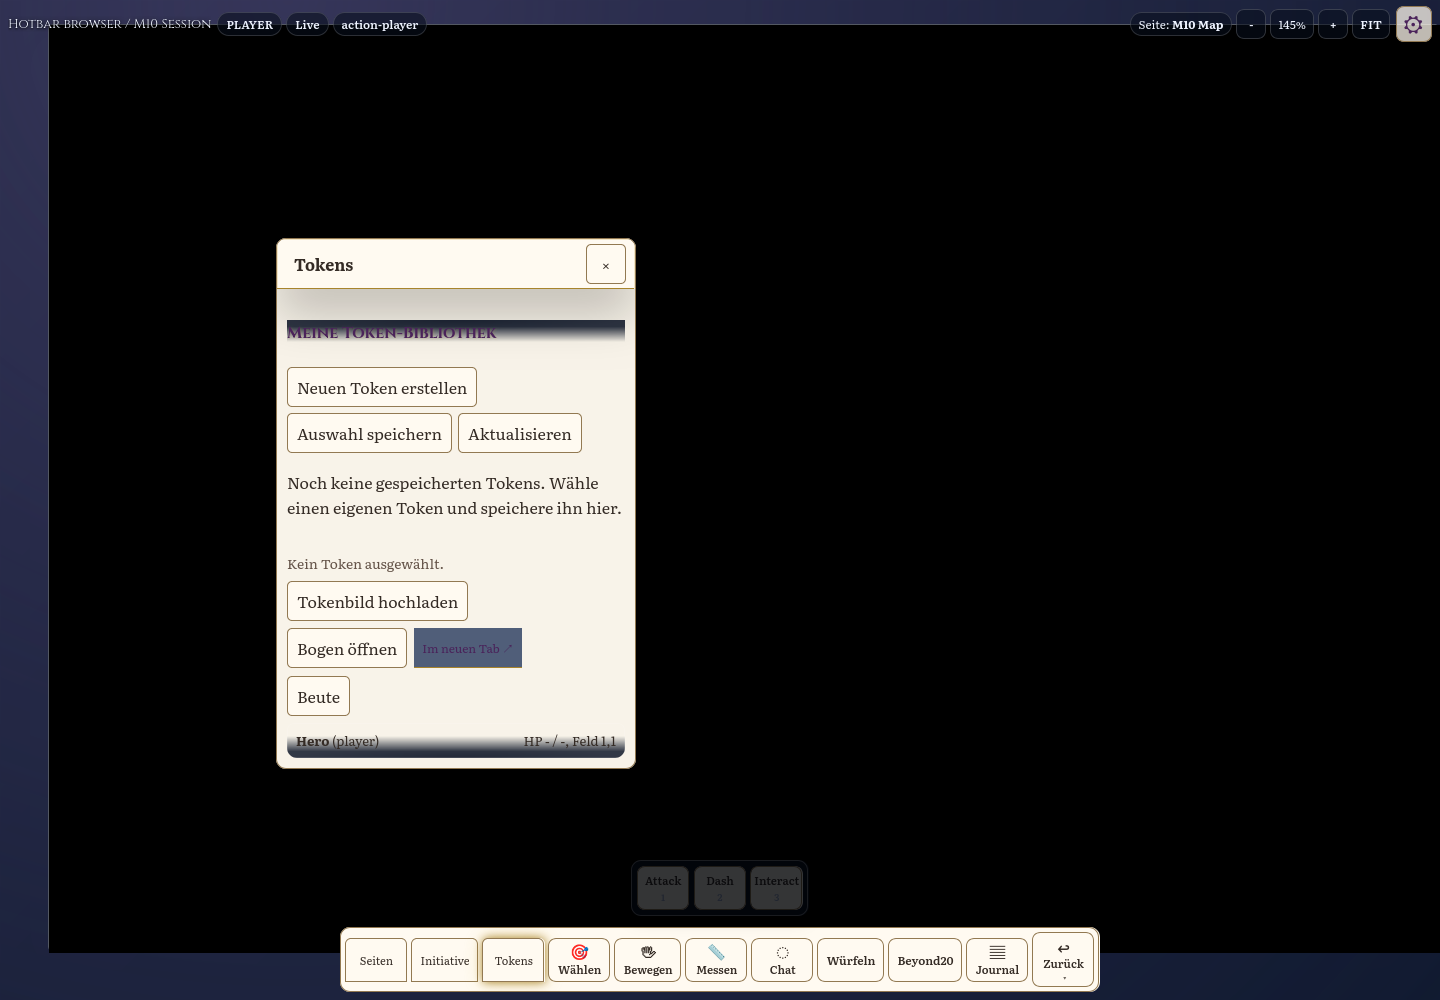
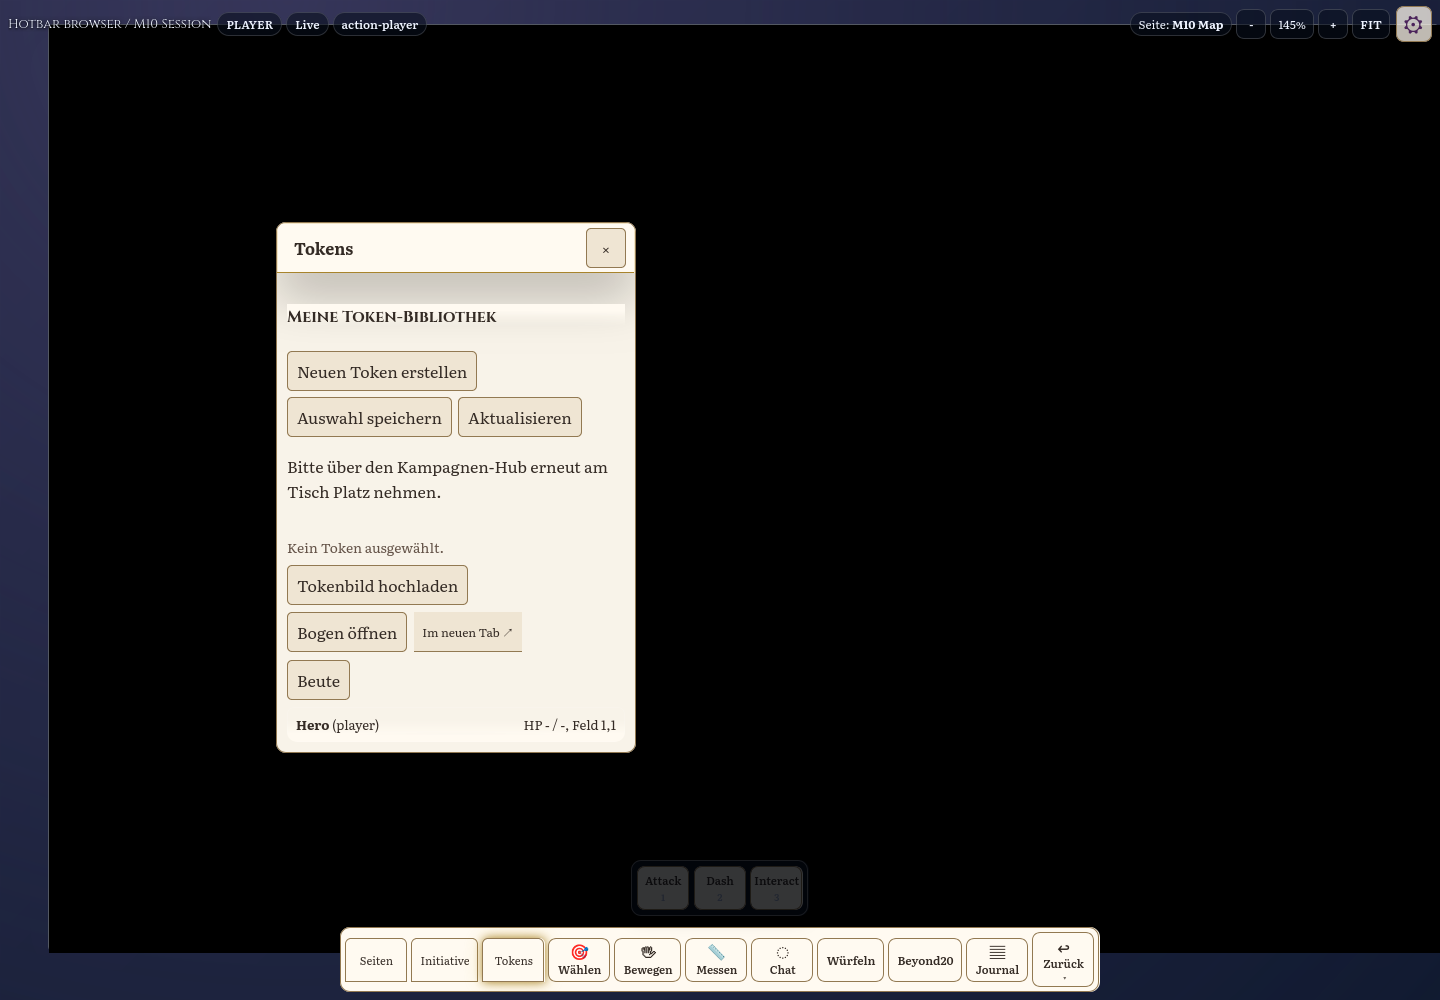
fix(playtable): apply display palette to floating windows fields and menus

Changed region(s): [[0.1875, 0.217, 0.4375, 0.775]]

diff --git a/vtt/static/css/play-windows.css b/vtt/static/css/play-windows.css
@@ -65,3 +65,27 @@ body.play-free-windows > .left-toolbar #btnBack { display: flex; }
 body.play-free-windows > .left-toolbar .tool-btn[hidden] { display: none !important; }
 body.play-free-windows > :is(.left-toolbar, #personalActionBar, #actionHotbar) button { color: var(--ui-ink, #eee) !important; background: var(--ui-panel, #302332) !important; border-color: var(--ui-line, #866); }
 body.play-free-windows > .left-toolbar .tool-btn.active { color: #fdfaf3 !important; background: var(--vtt-plum, #4b235a) !important; }
+
+/* Floating content has left .tabletop-shell; bind its chrome directly to the
+   same display palette instead of inheriting the old book-skin colours. */
+html[data-vtt-theme] body.play-free-windows :is(.play-window,[data-movable],.pa-dialog,.vision-geom-popover) {
+    --panel: var(--ui-panel); --panel-soft: var(--ui-soft); --line: var(--ui-line);
+    --text: var(--ui-ink); --muted: var(--ui-muted);
+    background: var(--ui-panel) !important; color: var(--ui-ink) !important; border-color: var(--ui-line) !important;
+}
+html[data-vtt-theme] body.play-free-windows > .play-window { background: var(--ui-paper) !important; }
+html[data-vtt-theme] body.play-free-windows :is(.play-window,[data-movable],.pa-dialog) :is(.panel,.subpanel,.list-item,.detail-box,.detail-panel,.empty-state,.workflow-copy-box,.token-library-row) {
+    background: var(--ui-panel) !important; color: var(--ui-ink) !important; border-color: var(--ui-line) !important; box-shadow: none;
+}
+html[data-vtt-theme] body.play-free-windows :is(.play-window,[data-movable],.pa-dialog) :is(h1,h2,h3,h4,h5,h6,label,legend,summary,p,dt,dd,th,td,.app-menu-status) {
+    color: var(--ui-ink) !important; text-shadow: none; background-image: none !important;
+}
+html[data-vtt-theme] body.play-free-windows :is(.play-window,[data-movable],.pa-dialog) :is(.muted,small,.hint) { color: var(--ui-muted) !important; }
+html[data-vtt-theme] body.play-free-windows :is(.play-window,[data-movable],.pa-dialog) :is(input:not([type=color]):not([type=checkbox]):not([type=radio]),textarea,select,option) {
+    background: var(--ui-panel) !important; color: var(--ui-ink) !important; border-color: var(--ui-line) !important;
+}
+html[data-vtt-theme] body.play-free-windows :is(.play-window,[data-movable],.pa-dialog) :is(button,.app-menu-item,.mini-btn) {
+    background: var(--ui-soft) !important; color: var(--ui-ink) !important; border-color: var(--ui-line) !important; text-shadow: none;
+}
+html[data-vtt-theme] body.play-free-windows :is(.play-window,[data-movable],.pa-dialog) :is(button,.app-menu-item,.mini-btn):is(:hover,:focus-visible) { border-color: var(--ui-accent) !important; }
+html[data-vtt-theme] body.play-free-windows :is(.play-window,[data-movable],.pa-dialog) a:not(.mini-btn):not(.app-menu-item) { color: var(--ui-accent) !important; }

diff --git a/tests/test_play_window_position_browser.py b/tests/test_play_window_position_browser.py
@@ -25,7 +25,6 @@ def test_windows_move_independently_and_scroll_inside_their_body(action_site, en
         assert second.evaluate("e=>getComputedStyle(e).position")=='fixed'
         # Bring the target to the front without depending on overlap order.
         page.locator('#dock-tokenWidget').click();page.locator('#dock-tokenWidget').click()
-        first.locator('.play-window-head strong').press('ArrowDown')
         before=first.bounding_box();other=second.bounding_box()
         heading=first.locator('.play-window-head strong');handle=heading.bounding_box()
         x=handle['x']+20;y=handle['y']+15
@@ -55,4 +54,39 @@ def test_windows_move_independently_and_scroll_inside_their_body(action_site, en
             path=Path(os.environ['VTT_PROOF_DIR']);path.mkdir(parents=True,exist_ok=True)
             page.screenshot(path=str(path/f'windows-{role}-{engine}-{width}.png'))
         assert errors==[],errors
+        browser.close()
+
+
+@pytest.mark.parametrize('engine,theme', [('chromium','night'),('firefox','paper')])
+def test_relocated_windows_textboxes_and_menus_follow_the_display_palette(action_site, engine, theme):
+    _,origin,info=action_site
+    with sync_playwright() as p:
+        browser=getattr(p,engine).launch(headless=True,args=['--no-sandbox'] if engine=='chromium' else [])
+        context=browser.new_context(viewport={'width':1440,'height':1000},reduced_motion='reduce')
+        context.add_init_script("localStorage.setItem('vtt.display.v1',JSON.stringify({schema:1,theme:'"+theme+"',language:'de',accent:'default',unit:'m'}))")
+        context.add_cookies([{'name':'access_token_cookie','value':info['player_auth'],'url':origin,'httpOnly':True}])
+        page=context.new_page();page.set_default_timeout(20000)
+        page.goto(f"{origin}/play?campaign_id={info['campaign']}&session_id={info['session']}&seat=player")
+        page.locator('#dock-tokenWidget').click()
+        page.locator('#btnChatToggle').click()
+        page.locator('#btnBack').click()
+        expect(page.locator('#appMenu')).to_be_visible()
+        # Native colour conversion avoids assuming how the browser serializes CSS variables.
+        values=page.evaluate("""() => {
+          const css=name=>{const e=document.createElement('span');e.style.color=`var(${name})`;document.body.append(e);const v=getComputedStyle(e).color;e.remove();return v;};
+          const specs=[['#window-tokenWidget','--ui-paper'],['#window-panel-chat .panel','--ui-panel'],['#chatInput','--ui-panel'],['#appMenu','--ui-panel'],['#appMenuReturn','--ui-soft']];
+          return specs.map(([selector,token])=>{const e=document.querySelector(selector),s=getComputedStyle(e);return {selector,bg:s.backgroundColor,expected:css(token),ink:s.color,expectedInk:css('--ui-ink')};});
+        }""")
+        for row in values:
+            assert row['bg']==row['expected'],row
+            assert row['ink']==row['expectedInk'],row
+        page.locator('#btnBack').click()
+        page.evaluate("VTTDisplay.update({theme:'night',accent:'teal'})")
+        assert page.locator('#window-tokenWidget').evaluate("e=>getComputedStyle(e).backgroundColor")=='rgb(28, 28, 28)'
+        heading=page.locator('#window-tokenWidget h4').first
+        assert heading.evaluate("e=>getComputedStyle(e).color")=='rgb(248, 244, 233)'
+        assert heading.evaluate("e=>getComputedStyle(e).backgroundImage")=='none'
+        if os.environ.get('VTT_PROOF_DIR'):
+            path=Path(os.environ['VTT_PROOF_DIR']);path.mkdir(parents=True,exist_ok=True)
+            page.screenshot(path=str(path/f'windows-colors-{theme}-{engine}.png'))
         browser.close()

diff --git a/docs/proofs/live-window-journey.py b/docs/proofs/live-window-journey.py
@@ -17,6 +17,8 @@ with sync_playwright() as p:
         for engine,role,width in [('chromium','dm',1440),('firefox','player',1440),('chromium','player',390)]:
             browser=getattr(p,engine).launch(headless=True,args=['--no-sandbox'] if engine=='chromium' else [])
             context=browser.new_context(viewport={'width':width,'height':1000},reduced_motion='reduce',has_touch=width<600)
+            theme='paper' if engine=='firefox' else 'night'
+            context.add_init_script("localStorage.setItem('vtt.display.v1',JSON.stringify({schema:1,theme:'"+theme+"',language:'de',accent:'default',unit:'m'}))")
             user=fixture['users'][role]
             context.add_cookies([{'name':'access_token_cookie','value':user['token'],'url':origin,'httpOnly':True,'secure':True},
                                 {'name':'csrf_access_token','value':user['csrf'],'url':origin,'secure':True}])
@@ -29,6 +31,14 @@ with sync_playwright() as p:
             page.locator('#dock-tokenWidget').click();page.locator('#dock-turnOrderWidget').click()
             first=page.locator('#window-tokenWidget');second=page.locator('#window-turnOrderWidget')
             expect(first).to_be_visible();expect(second).to_be_visible()
+            page.locator('#btnChatToggle').click();page.locator('#btnBack').click()
+            palette=page.evaluate("""() => {
+              const resolve=token=>{const e=document.createElement('span');e.style.color=`var(${token})`;document.body.append(e);const v=getComputedStyle(e).color;e.remove();return v;};
+              return [['#window-tokenWidget','--ui-paper'],['#window-panel-chat .panel','--ui-panel'],['#chatInput','--ui-panel'],['#appMenu','--ui-panel'],['#appMenuReturn','--ui-soft']].map(([selector,token])=>{const s=getComputedStyle(document.querySelector(selector));return {selector,bg:s.backgroundColor,expected:resolve(token),ink:s.color,expectedInk:resolve('--ui-ink')};});
+            }""")
+            assert all(row['bg']==row['expected'] and row['ink']==row['expectedInk'] for row in palette),palette
+            page.locator('#btnBack').click()
+            page.locator('#window-panel-chat .play-window-head button').click()
             assert first.evaluate("e=>getComputedStyle(e).position")=='fixed'
             assert second.evaluate("e=>getComputedStyle(e).position")=='fixed'
             page.locator('#dock-tokenWidget').click();page.locator('#dock-tokenWidget').click()
@@ -59,7 +69,7 @@ with sync_playwright() as p:
             if role=='player':assert not page.evaluate('Boolean(window.PlayDMSurface)')
             assert errors==[],errors
             page.screenshot(path=str(root/f'windows-{role}-{engine}-{width}.png'))
-            proof['journeys'].append({'role':role,'engine':engine,'width':width,'drag':'touch' if width<600 else 'mouse','before':before,'after':moved,'independent_scroll':True,'restored_after_reload':True})
+            proof['journeys'].append({'role':role,'engine':engine,'width':width,'theme':theme,'palette':palette,'drag':'touch' if width<600 else 'mouse','before':before,'after':moved,'independent_scroll':True,'restored_after_reload':True})
             save();browser.close()
         proof['status']='pass';save()
     except Exception as error:

diff --git a/docs/DADM_APPLY_PLAYTABLE_WINDOWS_2026-11-22.md b/docs/DADM_APPLY_PLAYTABLE_WINDOWS_2026-11-22.md
@@ -7,3 +7,5 @@ Die Live-Basis ist `6a2fcedce` / Image `sha256:3de96a3ce53034adc559e5bca92b27d6a
 Deploy-Grenze: ausschließlich die eigenen Fenster am Body explizit als feste, transformfreie Bildschirmflächen positionieren; Header schrumpft nicht, Body ist alleiniger flexibler Scrollbereich. Keine Änderung an Tischrechten, Fensterspeicherung, Inhaltsinstanzen oder Kartenkoordinaten. Bestehende Positionen und Reset bleiben erhalten.
 
 Abnahme: Browser reproduziert vor Fix die falsche berechnete Position. Danach zwei gleichzeitig offene Fenster in DM/Player und Chromium/Firefox; echte Maus-/Touchbewegung verändert Position um die beabsichtigte Strecke, andere Fenster bleiben stehen. Scrollen verändert nur den eigenen Fensterinhalt, nicht Dokument oder Nachbarfenster. Close/Reload stellt Position wieder her. Mobil bleiben Header und Schließen erreichbar. Source/Image und app-only Rollback werden bei Lieferung protokolliert.
+
+Owner-Ergänzung: Darkmode muss alle Textboxen und Menüs mit derselben Palette zeichnen. Die bisherigen Tisch-Farbregeln sind an `.tabletop-shell` gebunden; herausgelöste Fenster und Menüs verlieren diesen Kontext. Eigene schwebende UI-Flächen, Unterpanels, Überschriften, Formularfelder, Optionen und Menüs binden deshalb direkt an die vorhandenen semantischen `--ui-*`-Farben. Nacht übernimmt Ink/Edo/Mouse Grey/Natural einschließlich gewähltem Bronze-/Petrolakzent; Pergament bleibt ebenfalls konsistent. Kartenbilder, Tokens, Canvas, frei gewählte Zeichenfarben und Benutzernamen werden nicht umgefärbt oder übersetzt. Browserprüfung vergleicht berechnete Vorder-/Hintergrundfarben mit diesen Tokenrollen und prüft einen bewussten Darstellungswechsel bei offenem Fenster.
